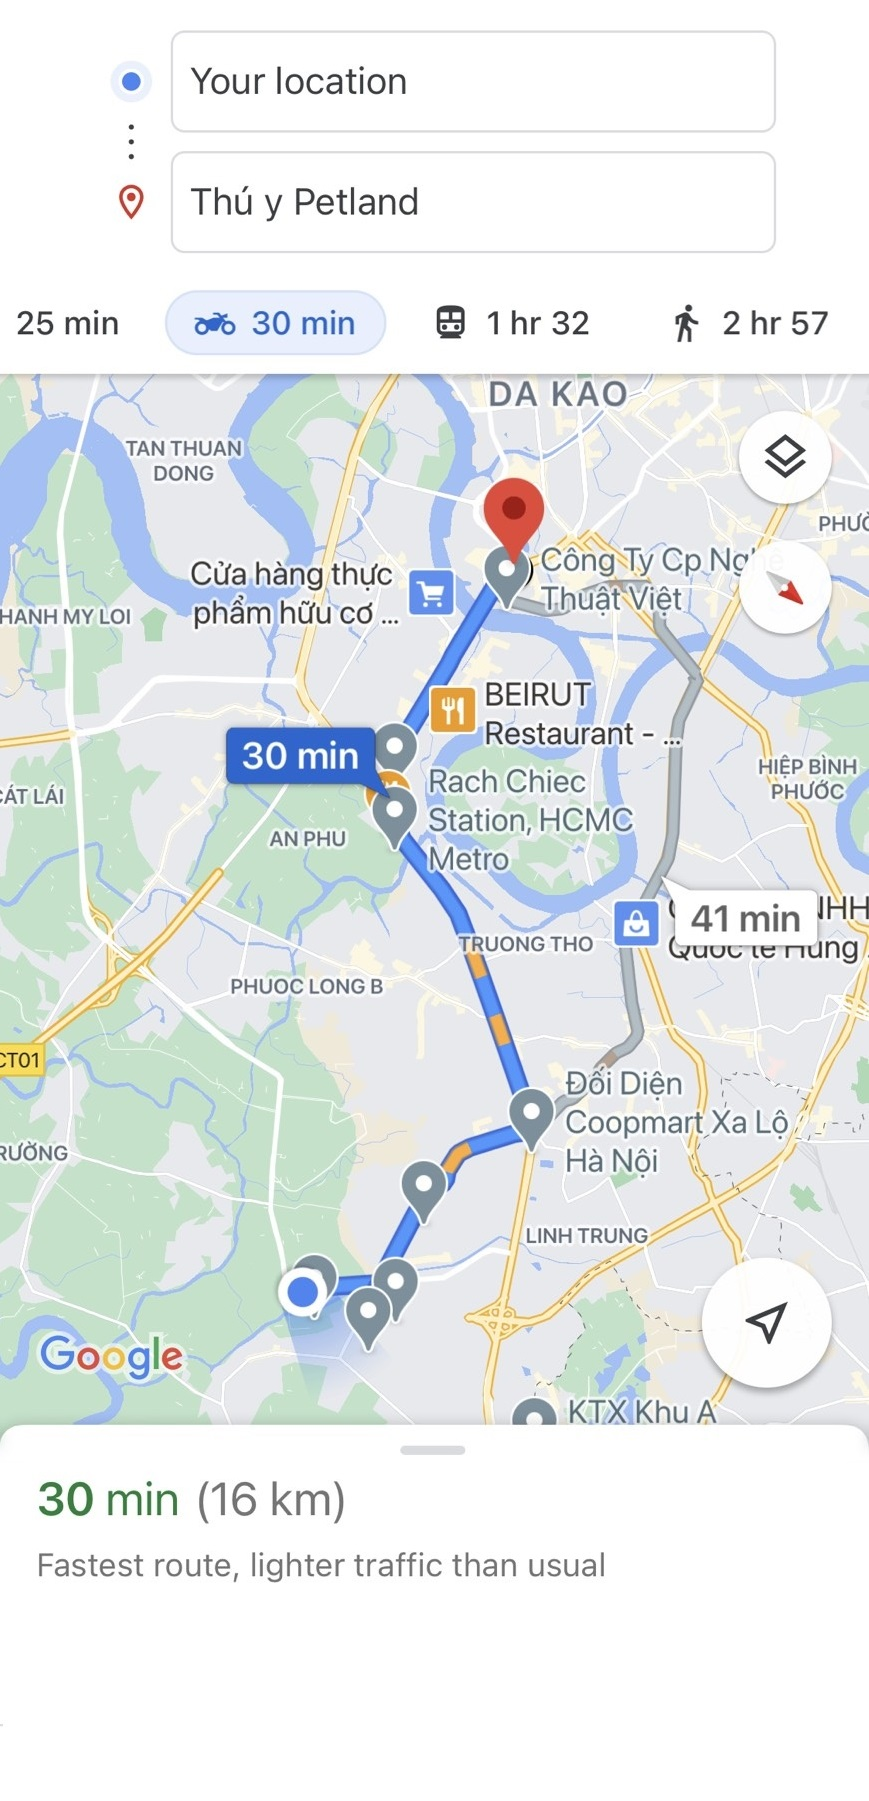
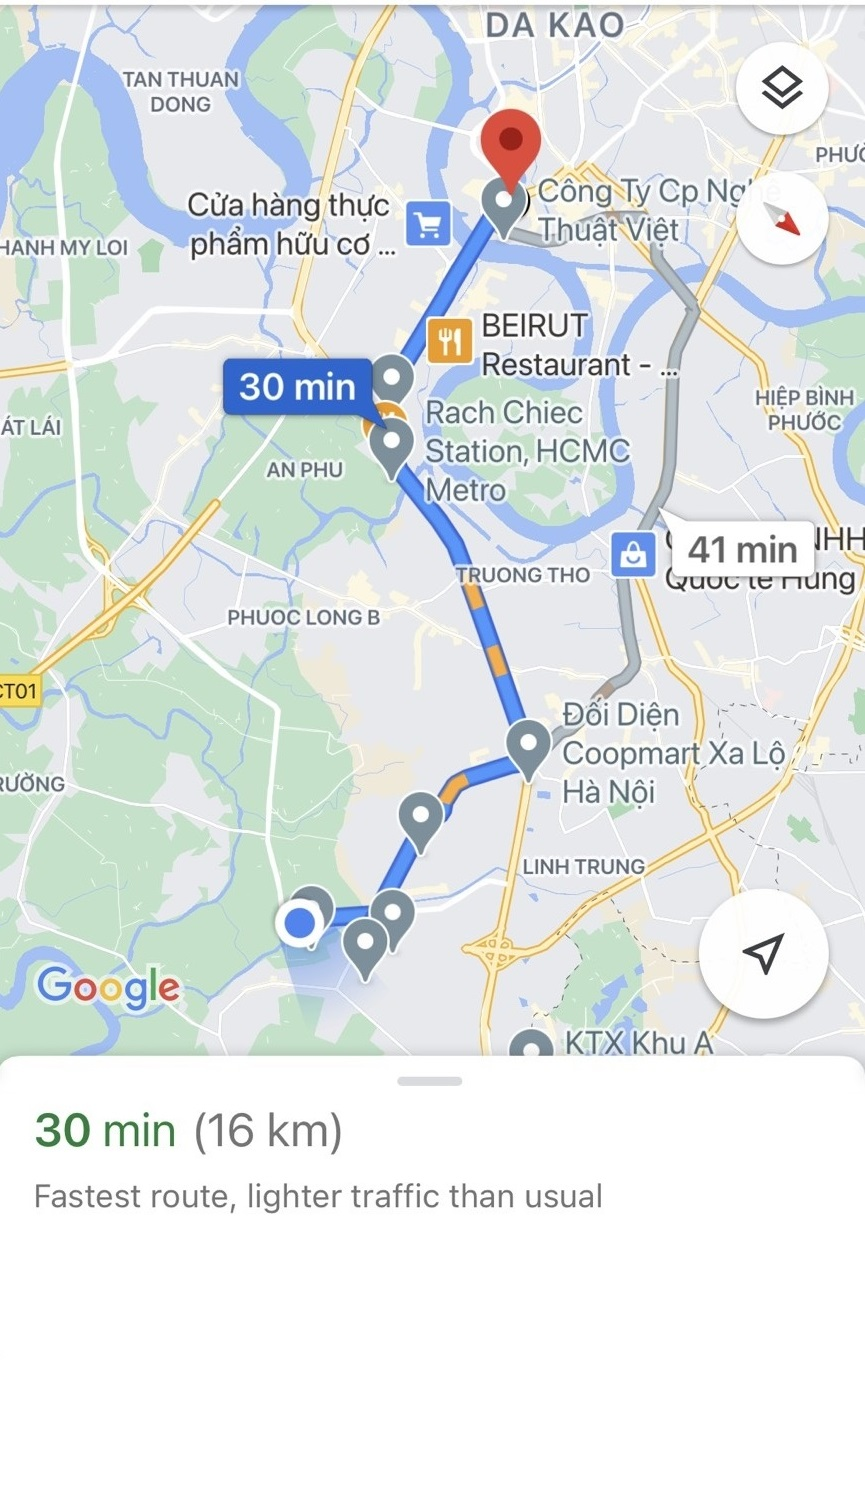
LuanDP Update MapPic

diff --git a/lib/view/MapPic.dart b/lib/view/MapPic.dart
@@ -1,5 +1,6 @@
 import 'package:flutter/cupertino.dart';
 import 'package:flutter/material.dart';
+import 'package:pet_help/view/UserPostDetail.dart';
 
 import 'AddPetAfterRes.dart';
 
@@ -7,13 +8,31 @@ class MapPic extends StatelessWidget {
   @override
   Widget build(BuildContext context) {
     return Scaffold(
-      appBar: AppBar(title: Text('Map')),
+      appBar: AppBar(
+        leading: IconButton(
+
+            icon: Icon(Icons.arrow_back_ios, color: Colors.white),
+
+            onPressed: () {
+              Navigator.of(context).pushReplacement(MaterialPageRoute(
+                builder: (context) => UserPostDetail(),
+              ));
+            }),
+        title: Container(
+          child: Text(
+            'Map',
+            style: TextStyle(color: Colors.white, fontSize: 20),
+          ),
+        ),
+        backgroundColor: Color.fromRGBO(253, 158, 121, 1),
+        centerTitle: true,
+      ),
       body:
 
     Container(
     decoration: BoxDecoration(
     image: DecorationImage(
-    image: AssetImage('src/image/MapGG.jpg'), fit: BoxFit.cover),
+    image: AssetImage('src/image/MapGG.jpg'), fit: BoxFit.fitWidth),
     // gradient: LinearGradient(
     //     colors: [Colors.blue[400], Colors.blue],
     //     begin: Alignment.bottomCenter,
@@ -21,13 +40,22 @@ class MapPic extends StatelessWidget {
     ),
     ),
       floatingActionButtonLocation: FloatingActionButtonLocation.centerFloat,
-      floatingActionButton: FloatingActionButton(
-        tooltip: 'Increment',
-        child: Icon(Icons.done),
-        onPressed: () {
-          Navigator.of(context).pushReplacement(MaterialPageRoute(builder: (context) => AddPetAfterRes()));
-        },
-      ),
+        floatingActionButton: Container(
+          height: 145.0,
+          width: 145.0,
+
+          child: FittedBox(
+
+            child: FloatingActionButton.extended(
+              backgroundColor: Color.fromRGBO(253, 158, 121, 1),
+                label: Text('done'),
+                icon: Icon(Icons.done),
+                onPressed: () {
+                  Navigator.of(context).pushReplacement(MaterialPageRoute(builder: (context) => AddPetAfterRes()));
+                }
+                ),
+          ),
+        ),
     );
   }
 }

diff --git a/lib/view/UserPostDetail.dart b/lib/view/UserPostDetail.dart
@@ -9,6 +9,7 @@ import 'package:pet_help/view/Contact.dart';
 import 'package:pet_help/view/GMap.dart';
 import 'package:pet_help/view/GMap2.dart';
 import 'package:pet_help/view/HomePage.dart';
+import 'package:pet_help/view/MapPic.dart';
 import 'package:pet_help/view/RescueHome.dart';
 import 'package:pet_help/view/RescuePetManagement.dart';
 import 'package:pet_help/view/PetHealthReportList.dart';
@@ -523,7 +524,7 @@ class UserPostDetailState extends State<UserPostDetail> {
                         GestureDetector(
                             onTap: () {
                               Navigator.of(context).push(new MaterialPageRoute(
-                                  builder: (context) => GMap()));
+                                  builder: (context) => MapPic()));
                             },
                             child: Container(
                               height: 43,

diff --git a/lib/main.dart b/lib/main.dart
@@ -4,7 +4,7 @@ import 'package:pet_help/view/MapPic.dart';
 
 void main() {
   runApp(MaterialApp(
-   home: MapPic(),
+   home: Login(),
    debugShowCheckedModeBanner: false,
   ));
 }
